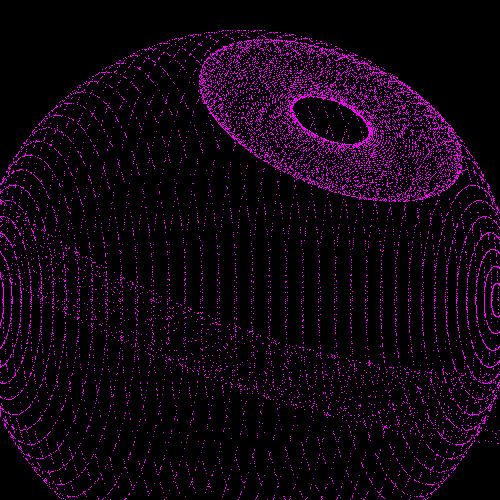
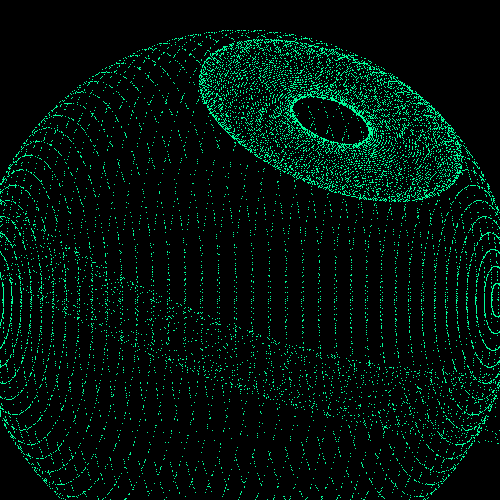
updated colors

diff --git a/parser.c b/parser.c
@@ -75,9 +75,9 @@ void parse_file ( char * filename,
   double angle;
   color g;
 
-  g.red = 255;
-  g.green = 0;
-  g.blue = 255;
+  g.red = 0;
+  g.green = 255;
+  g.blue = 155;
   
   clear_screen(s);
 
